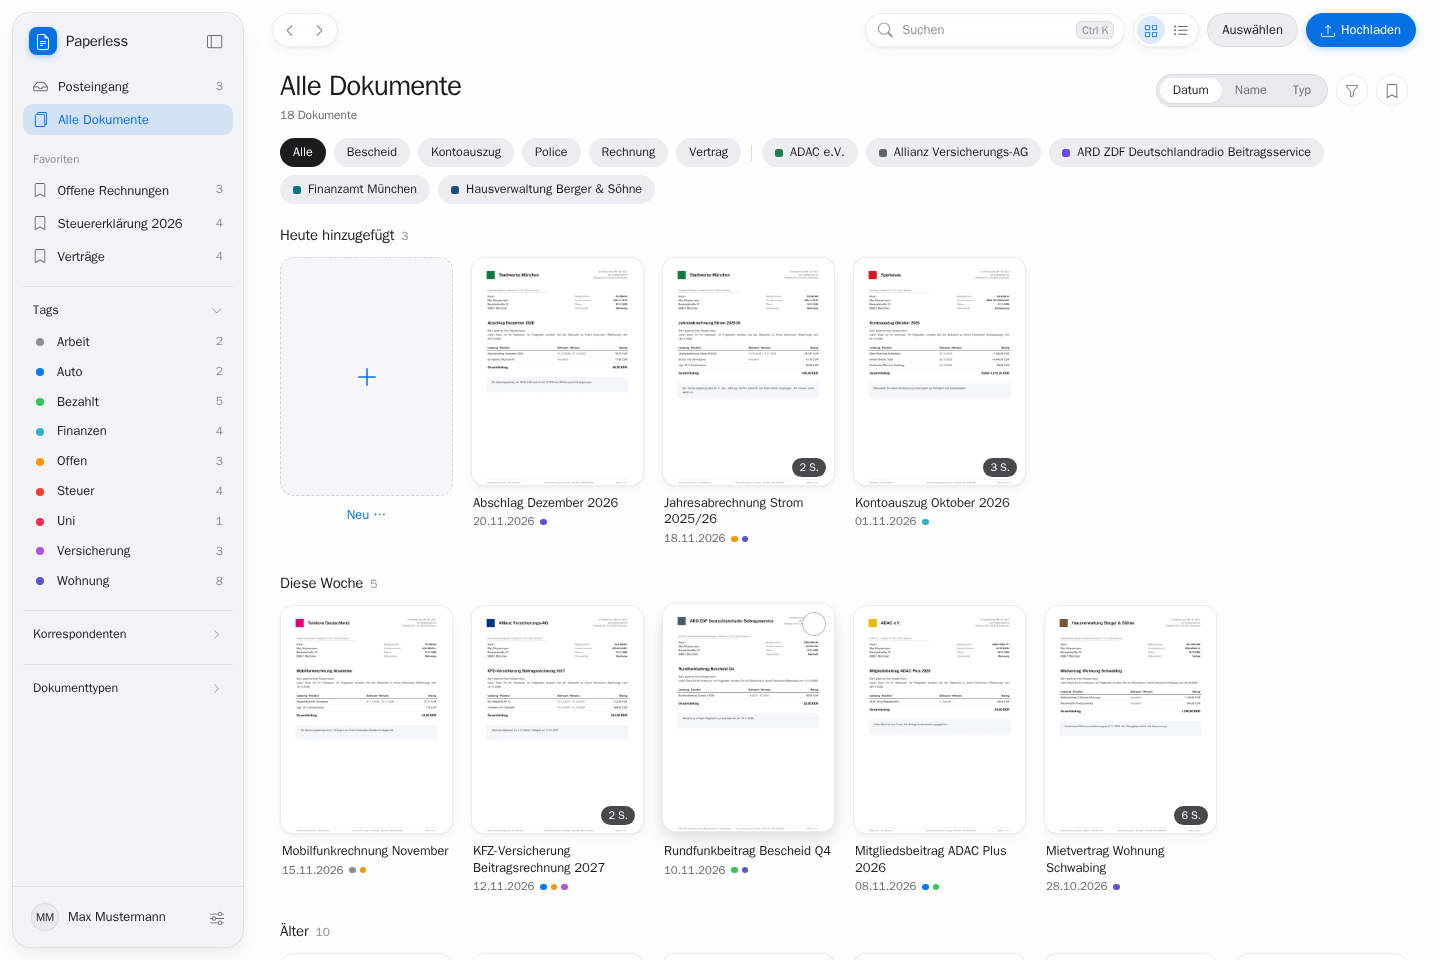
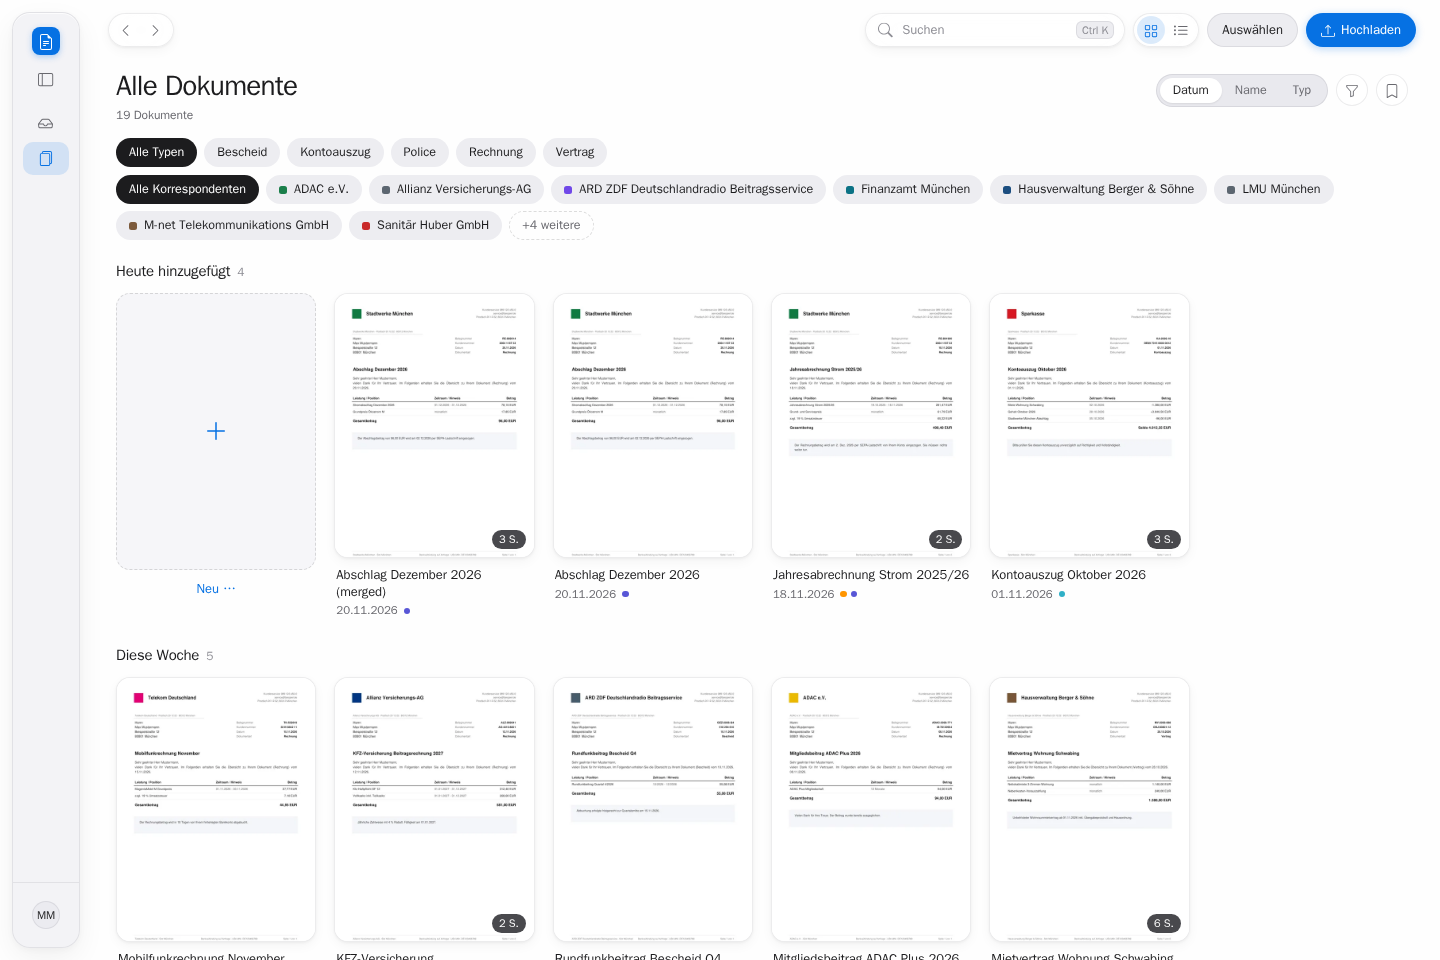
feat(redesign): split quick filter pills into two rows with multi-select for types and correspondents

diff --git a/src-ui/src/app/components/document-list/document-list.component.ts b/src-ui/src/app/components/document-list/document-list.component.ts
@@ -46,6 +46,8 @@ import {
   FILTER_CORRESPONDENT,
   FILTER_DOCUMENT_TYPE,
   FILTER_FULLTEXT_MORELIKE,
+  FILTER_HAS_CORRESPONDENT_ANY,
+  FILTER_HAS_DOCUMENT_TYPE_ANY,
   FILTER_HAS_TAGS_ALL,
   FILTER_IS_IN_INBOX,
 } from 'src/app/data/filter-rule-type'
@@ -277,11 +279,19 @@ export class DocumentListComponent
           const tag = this.tagMap.get(Number(rule.value))
           if (tag) return tag.name
         }
-        if (rule.rule_type === FILTER_CORRESPONDENT && rule.value) {
+        if (
+          (rule.rule_type === FILTER_CORRESPONDENT ||
+            rule.rule_type === FILTER_HAS_CORRESPONDENT_ANY) &&
+          rule.value
+        ) {
           const corr = this.correspondentMap.get(Number(rule.value))
           if (corr) return corr.name
         }
-        if (rule.rule_type === FILTER_DOCUMENT_TYPE && rule.value) {
+        if (
+          (rule.rule_type === FILTER_DOCUMENT_TYPE ||
+            rule.rule_type === FILTER_HAS_DOCUMENT_TYPE_ANY) &&
+          rule.value
+        ) {
           const dt = this.documentTypeMap.get(Number(rule.value))
           if (dt) return dt.name
         }
@@ -334,70 +344,151 @@ export class DocumentListComponent
     }
   }
 
-  get activeDocumentTypeFilterId(): number | null {
-    const rule = (this.list.filterRules || []).find(
-      (r) => r.rule_type === FILTER_DOCUMENT_TYPE && r.value
-    )
-    return rule ? Number(rule.value) : null
+  readonly showAllQuickCorrespondents = signal(false)
+  readonly maxCollapsedQuickCorrespondents = 8
+
+  get activeDocumentTypeFilterIds(): Set<number> {
+    const ids = new Set<number>()
+    for (const rule of this.list.filterRules || []) {
+      if (
+        (rule.rule_type === FILTER_DOCUMENT_TYPE ||
+          rule.rule_type === FILTER_HAS_DOCUMENT_TYPE_ANY) &&
+        rule.value !== null &&
+        rule.value !== ''
+      ) {
+        const parsed = Number(rule.value)
+        if (Number.isFinite(parsed) && parsed > 0) {
+          ids.add(parsed)
+        }
+      }
+    }
+    return ids
   }
 
-  get activeCorrespondentFilterId(): number | null {
-    const rule = (this.list.filterRules || []).find(
-      (r) => r.rule_type === FILTER_CORRESPONDENT && r.value
+  get activeCorrespondentFilterIds(): Set<number> {
+    const ids = new Set<number>()
+    for (const rule of this.list.filterRules || []) {
+      if (
+        (rule.rule_type === FILTER_CORRESPONDENT ||
+          rule.rule_type === FILTER_HAS_CORRESPONDENT_ANY) &&
+        rule.value !== null &&
+        rule.value !== ''
+      ) {
+        const parsed = Number(rule.value)
+        if (Number.isFinite(parsed) && parsed > 0) {
+          ids.add(parsed)
+        }
+      }
+    }
+    return ids
+  }
+
+  get visibleQuickCorrespondents(): Correspondent[] {
+    const all = this.allCorrespondents()
+    if (
+      this.showAllQuickCorrespondents() ||
+      all.length <= this.maxCollapsedQuickCorrespondents
+    ) {
+      return all
+    }
+    const activeIds = this.activeCorrespondentFilterIds
+    const visible = all.slice(0, this.maxCollapsedQuickCorrespondents)
+    const visibleIds = new Set(visible.map((c) => c.id))
+    for (const corr of all) {
+      if (activeIds.has(corr.id) && !visibleIds.has(corr.id)) {
+        visible.push(corr)
+      }
+    }
+    return visible
+  }
+
+  get hiddenQuickCorrespondentsCount(): number {
+    return Math.max(
+      0,
+      this.allCorrespondents().length - this.visibleQuickCorrespondents.length
     )
-    return rule ? Number(rule.value) : null
+  }
+
+  isQuickDocumentTypeActive(documentTypeId: number): boolean {
+    return this.activeDocumentTypeFilterIds.has(documentTypeId)
+  }
+
+  isQuickCorrespondentActive(correspondentId: number): boolean {
+    return this.activeCorrespondentFilterIds.has(correspondentId)
   }
 
   get hasQuickPillFilter(): boolean {
     return (
-      this.activeDocumentTypeFilterId !== null ||
-      this.activeCorrespondentFilterId !== null
+      this.activeDocumentTypeFilterIds.size > 0 ||
+      this.activeCorrespondentFilterIds.size > 0
     )
+  }
+
+  clearQuickDocumentTypes(): void {
+    const remaining = (this.list.filterRules || []).filter(
+      (r) =>
+        r.rule_type !== FILTER_DOCUMENT_TYPE &&
+        r.rule_type !== FILTER_HAS_DOCUMENT_TYPE_ANY
+    )
+    this.list.setFilterRules(remaining)
+  }
+
+  clearQuickCorrespondents(): void {
+    const remaining = (this.list.filterRules || []).filter(
+      (r) =>
+        r.rule_type !== FILTER_CORRESPONDENT &&
+        r.rule_type !== FILTER_HAS_CORRESPONDENT_ANY
+    )
+    this.list.setFilterRules(remaining)
   }
 
   clearQuickPillFilters(): void {
     const remaining = (this.list.filterRules || []).filter(
       (r) =>
         r.rule_type !== FILTER_DOCUMENT_TYPE &&
-        r.rule_type !== FILTER_CORRESPONDENT
+        r.rule_type !== FILTER_HAS_DOCUMENT_TYPE_ANY &&
+        r.rule_type !== FILTER_CORRESPONDENT &&
+        r.rule_type !== FILTER_HAS_CORRESPONDENT_ANY
     )
     this.list.setFilterRules(remaining)
   }
 
   toggleQuickDocumentType(documentTypeId: number): void {
-    const isActive = this.activeDocumentTypeFilterId === documentTypeId
-    const withoutType = (this.list.filterRules || []).filter(
-      (r) => r.rule_type !== FILTER_DOCUMENT_TYPE
-    )
-    if (isActive) {
-      this.list.setFilterRules(withoutType)
+    const nextIds = new Set(this.activeDocumentTypeFilterIds)
+    if (nextIds.has(documentTypeId)) {
+      nextIds.delete(documentTypeId)
     } else {
-      this.list.setFilterRules([
-        ...withoutType,
-        {
-          rule_type: FILTER_DOCUMENT_TYPE,
-          value: documentTypeId.toString(),
-        },
-      ])
+      nextIds.add(documentTypeId)
     }
+    const withoutType = (this.list.filterRules || []).filter(
+      (r) =>
+        r.rule_type !== FILTER_DOCUMENT_TYPE &&
+        r.rule_type !== FILTER_HAS_DOCUMENT_TYPE_ANY
+    )
+    const typeRules: FilterRule[] = Array.from(nextIds).map((id) => ({
+      rule_type: FILTER_HAS_DOCUMENT_TYPE_ANY,
+      value: id.toString(),
+    }))
+    this.list.setFilterRules([...withoutType, ...typeRules])
   }
 
   toggleQuickCorrespondent(correspondentId: number): void {
-    const isActive = this.activeCorrespondentFilterId === correspondentId
-    const withoutCorr = (this.list.filterRules || []).filter(
-      (r) => r.rule_type !== FILTER_CORRESPONDENT
-    )
-    if (isActive) {
-      this.list.setFilterRules(withoutCorr)
+    const nextIds = new Set(this.activeCorrespondentFilterIds)
+    if (nextIds.has(correspondentId)) {
+      nextIds.delete(correspondentId)
     } else {
-      this.list.setFilterRules([
-        ...withoutCorr,
-        {
-          rule_type: FILTER_CORRESPONDENT,
-          value: correspondentId.toString(),
-        },
-      ])
+      nextIds.add(correspondentId)
     }
+    const withoutCorr = (this.list.filterRules || []).filter(
+      (r) =>
+        r.rule_type !== FILTER_CORRESPONDENT &&
+        r.rule_type !== FILTER_HAS_CORRESPONDENT_ANY
+    )
+    const corrRules: FilterRule[] = Array.from(nextIds).map((id) => ({
+      rule_type: FILTER_HAS_CORRESPONDENT_ANY,
+      value: id.toString(),
+    }))
+    this.list.setFilterRules([...withoutCorr, ...corrRules])
   }
 
   getCorrespondentColor(id: number): string {

diff --git a/src-ui/src/app/components/document-list/document-list.component.html b/src-ui/src/app/components/document-list/document-list.component.html
@@ -113,42 +113,74 @@
   </header>
 
   @if (allDocumentTypes().length > 0 || allCorrespondents().length > 0) {
-    <div class="rd-filter-pills" role="toolbar" aria-label="Schnellfilter" i18n-aria-label>
-      <button
-        type="button"
-        class="rd-filter-pill"
-        [class.is-active]="!hasQuickPillFilter"
-        (click)="clearQuickPillFilters()"
-        i18n
-      >Alle</button>
+    <div class="rd-filter-pills-stack" role="toolbar" aria-label="Schnellfilter" i18n-aria-label>
+      @if (allDocumentTypes().length > 0) {
+        <div class="rd-filter-pills-row" role="group" aria-label="Dokumenttypen" i18n-aria-label>
+          <button
+            type="button"
+            class="rd-filter-pill"
+            [class.is-active]="activeDocumentTypeFilterIds.size === 0"
+            [attr.aria-pressed]="activeDocumentTypeFilterIds.size === 0"
+            (click)="clearQuickDocumentTypes()"
+            i18n
+          >Alle Typen</button>
 
-      @for (dt of allDocumentTypes(); track dt.id) {
-        <button
-          type="button"
-          class="rd-filter-pill"
-          [class.is-active]="activeDocumentTypeFilterId === dt.id"
-          (click)="toggleQuickDocumentType(dt.id)"
-        >{{ dt.name }}</button>
+          @for (dt of allDocumentTypes(); track dt.id) {
+            <button
+              type="button"
+              class="rd-filter-pill"
+              [class.is-active]="isQuickDocumentTypeActive(dt.id)"
+              [attr.aria-pressed]="isQuickDocumentTypeActive(dt.id)"
+              (click)="toggleQuickDocumentType(dt.id)"
+            >{{ dt.name }}</button>
+          }
+        </div>
       }
 
-      @if (allDocumentTypes().length > 0 && allCorrespondents().length > 0) {
-        <span class="rd-pills-divider" aria-hidden="true"></span>
-      }
+      @if (allCorrespondents().length > 0) {
+        <div class="rd-filter-pills-row" role="group" aria-label="Korrespondenten" i18n-aria-label>
+          <button
+            type="button"
+            class="rd-filter-pill"
+            [class.is-active]="activeCorrespondentFilterIds.size === 0"
+            [attr.aria-pressed]="activeCorrespondentFilterIds.size === 0"
+            (click)="clearQuickCorrespondents()"
+            i18n
+          >Alle Korrespondenten</button>
 
-      @for (corr of allCorrespondents().slice(0, 5); track corr.id) {
-        <button
-          type="button"
-          class="rd-filter-pill rd-filter-pill-correspondent"
-          [class.is-active]="activeCorrespondentFilterId === corr.id"
-          (click)="toggleQuickCorrespondent(corr.id)"
-        >
-          <span
-            class="rd-pill-dot"
-            [style.background-color]="getCorrespondentColor(corr.id)"
-            aria-hidden="true"
-          ></span>
-          <span>{{ corr.name }}</span>
-        </button>
+          @for (corr of visibleQuickCorrespondents; track corr.id) {
+            <button
+              type="button"
+              class="rd-filter-pill rd-filter-pill-correspondent"
+              [class.is-active]="isQuickCorrespondentActive(corr.id)"
+              [attr.aria-pressed]="isQuickCorrespondentActive(corr.id)"
+              (click)="toggleQuickCorrespondent(corr.id)"
+            >
+              <span
+                class="rd-pill-dot"
+                [style.background-color]="getCorrespondentColor(corr.id)"
+                aria-hidden="true"
+              ></span>
+              <span>{{ corr.name }}</span>
+            </button>
+          }
+
+          @if (hiddenQuickCorrespondentsCount > 0) {
+            <button
+              type="button"
+              class="rd-filter-pill rd-filter-pill-more"
+              (click)="showAllQuickCorrespondents.set(true)"
+              i18n
+            >+{{ hiddenQuickCorrespondentsCount }} weitere</button>
+          } @else if (showAllQuickCorrespondents() && allCorrespondents().length > maxCollapsedQuickCorrespondents) {
+            <button
+              type="button"
+              class="rd-filter-pill rd-filter-pill-more"
+              (click)="showAllQuickCorrespondents.set(false)"
+              i18n
+            >Weniger</button>
+          }
+        </div>
       }
     </div>
   }

diff --git a/src-ui/src/app/components/document-list/document-list.component.scss b/src-ui/src/app/components/document-list/document-list.component.scss
@@ -133,12 +133,18 @@
   min-width: 210px;
 }
 
-.rd-filter-pills {
+.rd-filter-pills-stack {
+  display: flex;
+  flex-direction: column;
+  gap: 8px;
+  margin-bottom: 22px;
+}
+
+.rd-filter-pills-row {
   display: flex;
   flex-wrap: wrap;
   align-items: center;
-  gap: 8px;
-  margin-bottom: 22px;
+  gap: 7px;
 }
 
 .rd-filter-pill {
@@ -168,18 +174,22 @@
   }
 }
 
+.rd-filter-pill-more {
+  background: transparent;
+  border: 1px dashed var(--rd-border-medium);
+  color: var(--rd-text-secondary);
+
+  &:hover {
+    background: var(--rd-bg-pill);
+    color: var(--rd-text-primary);
+  }
+}
+
 .rd-pill-dot {
   width: 8px;
   height: 8px;
   border-radius: 2.5px;
   flex-shrink: 0;
-}
-
-.rd-pills-divider {
-  width: 1px;
-  height: 16px;
-  margin: 0 2px;
-  background: var(--rd-border-medium);
 }
 
 .rd-advanced-filter-panel {
